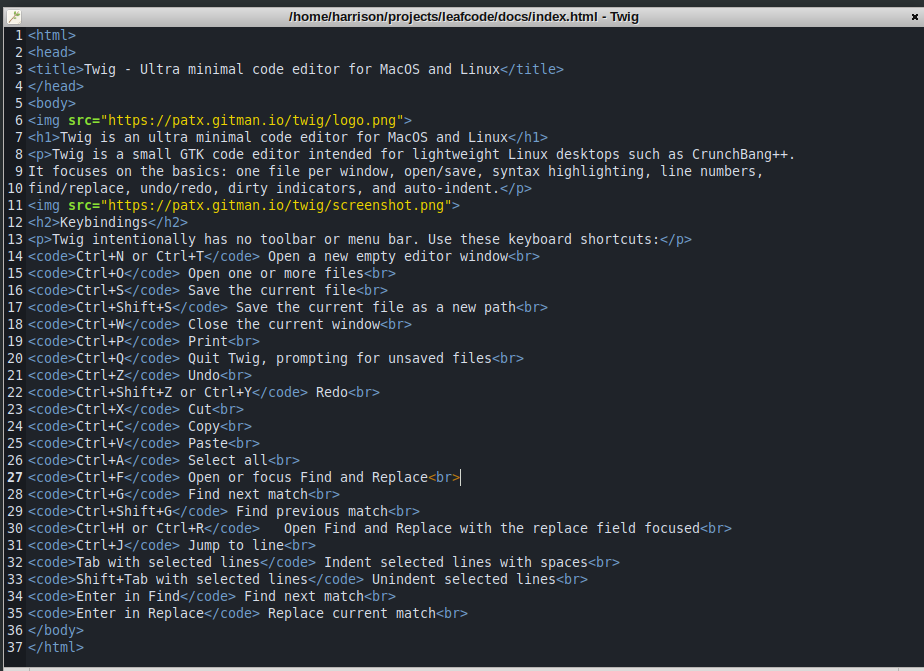
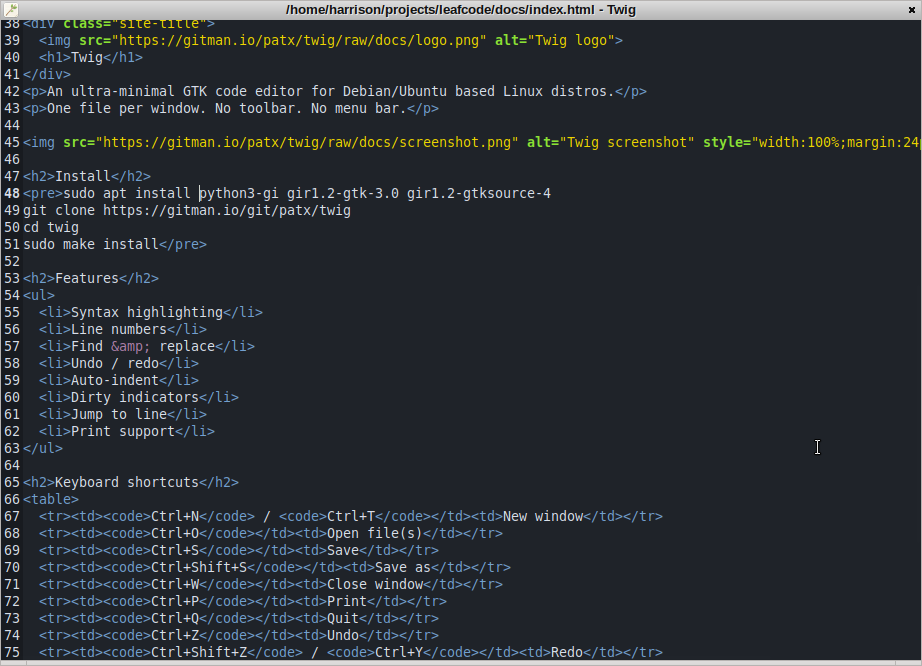
improve website

Changed region(s): [[0.0, 0.0, 1.0, 1.0], [0.8807, 0.6607, 0.9111, 0.6907]]

diff --git a/docs/index.html b/docs/index.html
@@ -1,37 +1,89 @@
-<html>
+<!DOCTYPE html>
+<html lang="en">
 <head>
-<title>Twig - Ultra minimal code editor for MacOS and Linux</title>
+<meta charset="UTF-8">
+<meta name="viewport" content="width=device-width, initial-scale=1.0">
+<title>Twig — minimal code editor</title>
+<style>
+  body {
+    font-family: monospace;
+    font-size: 15px;
+    line-height: 1.7;
+    max-width: 600px;
+    margin: 60px auto;
+    padding: 0 20px 80px;
+    color: #111;
+    background: #fff;
+  }
+  h1 { font-size: 1.1rem; margin: 0 0 8px; }
+  h2 { font-size: 0.85rem; margin: 40px 0 12px; text-transform: uppercase; letter-spacing: 0.05em; color: #888; }
+  p  { color: #444; margin: 0 0 8px; }
+  ul { padding-left: 1.2em; color: #444; margin: 0; }
+  li { margin: 2px 0; }
+  table { border-collapse: collapse; width: 100%; font-size: 0.9rem; }
+  td { padding: 4px 0; vertical-align: top; }
+  td:first-child { width: 55%; color: #111; }
+  td:last-child { color: #888; }
+  code { background: #f2f2f2; padding: 1px 5px; }
+  a { color: #111; }
+  footer { margin-top: 48px; color: #bbb; font-size: 0.8rem; }
+  pre { background: #f2f2f2; padding: 12px; margin: 0; overflow-x: auto; }
+  .site-title { display: flex; align-items: center; gap: 10px; margin-bottom: 8px; }
+  .site-title img { height: 28px; width: auto; }
+  .site-title h1 { margin: 0; }
+</style>
 </head>
 <body>
-<img src="https://gitman.io/patx/twig/raw/docs/logo.png">
-<h1>Twig is an ultra minimal code editor for MacOS and Linux</h1>
-<p>Twig is a small GTK code editor intended for lightweight Linux desktops such as CrunchBang++.
-It focuses on the basics: one file per window, open/save, syntax highlighting, line numbers,
-find/replace, undo/redo, dirty indicators, and auto-indent.</p>
-<img src="https://gitman.io/patx/twig/raw/docs/screenshot.png">
-<h2>Keybindings</h2>
-<p>Twig intentionally has no toolbar or menu bar. Use these keyboard shortcuts:</p>
-<code>Ctrl+N or Ctrl+T</code> Open a new empty editor window<br>
-<code>Ctrl+O</code> Open one or more files<br>
-<code>Ctrl+S</code>	Save the current file<br>
-<code>Ctrl+Shift+S</code> Save the current file as a new path<br>
-<code>Ctrl+W</code> Close the current window<br>
-<code>Ctrl+P</code> Print<br>
-<code>Ctrl+Q</code> Quit Twig, prompting for unsaved files<br>
-<code>Ctrl+Z</code> Undo<br>
-<code>Ctrl+Shift+Z or Ctrl+Y</code> Redo<br>
-<code>Ctrl+X</code> Cut<br>
-<code>Ctrl+C</code> Copy<br>
-<code>Ctrl+V</code> Paste<br>
-<code>Ctrl+A</code> Select all<br>
-<code>Ctrl+F</code> Open or focus Find and Replace<br>
-<code>Ctrl+G</code> Find next match<br>
-<code>Ctrl+Shift+G</code> Find previous match<br>
-<code>Ctrl+H or Ctrl+R</code>	Open Find and Replace with the replace field focused<br>
-<code>Ctrl+J</code>	Jump to line<br>
-<code>Tab with selected lines</code> Indent selected lines with spaces<br>
-<code>Shift+Tab with selected lines</code> Unindent selected lines<br>
-<code>Enter in Find</code> Find next match<br>
-<code>Enter in Replace</code> Replace current match<br>
+
+<div class="site-title">
+  <img src="https://gitman.io/patx/twig/raw/docs/logo.png" alt="Twig logo">
+  <h1>Twig</h1>
+</div>
+<p>An ultra-minimal GTK code editor for Debian/Ubuntu based Linux distros.</p>
+<p>One file per window. No toolbar. No menu bar. <a href="https://gitman.io/patx/twig/raw/docs/screenshot.png" target="_blank">View screenshot</a>.</p>
+
+<h2>Install</h2>
+<pre>sudo apt install python3-gi gir1.2-gtk-3.0 gir1.2-gtksource-4
+git clone https://gitman.io/git/patx/twig
+cd twig
+sudo make install</pre>
+
+<h2>Features</h2>
+<ul>
+  <li>Syntax highlighting</li>
+  <li>Line numbers</li>
+  <li>Find &amp; replace</li>
+  <li>Undo / redo</li>
+  <li>Auto-indent</li>
+  <li>Dirty indicators</li>
+  <li>Jump to line</li>
+  <li>Print support</li>
+</ul>
+
+<h2>Keyboard shortcuts</h2>
+<table>
+  <tr><td><code>Ctrl+N</code> / <code>Ctrl+T</code></td><td>New window</td></tr>
+  <tr><td><code>Ctrl+O</code></td><td>Open file(s)</td></tr>
+  <tr><td><code>Ctrl+S</code></td><td>Save</td></tr>
+  <tr><td><code>Ctrl+Shift+S</code></td><td>Save as</td></tr>
+  <tr><td><code>Ctrl+W</code></td><td>Close window</td></tr>
+  <tr><td><code>Ctrl+P</code></td><td>Print</td></tr>
+  <tr><td><code>Ctrl+Q</code></td><td>Quit</td></tr>
+  <tr><td><code>Ctrl+Z</code></td><td>Undo</td></tr>
+  <tr><td><code>Ctrl+Shift+Z</code> / <code>Ctrl+Y</code></td><td>Redo</td></tr>
+  <tr><td><code>Ctrl+X</code> / <code>Ctrl+C</code> / <code>Ctrl+V</code></td><td>Cut / Copy / Paste</td></tr>
+  <tr><td><code>Ctrl+A</code></td><td>Select all</td></tr>
+  <tr><td><code>Ctrl+F</code></td><td>Find</td></tr>
+  <tr><td><code>Ctrl+G</code> / <code>Ctrl+Shift+G</code></td><td>Find next / previous</td></tr>
+  <tr><td><code>Ctrl+H</code> / <code>Ctrl+R</code></td><td>Find &amp; replace</td></tr>
+  <tr><td><code>Ctrl+J</code></td><td>Jump to line</td></tr>
+  <tr><td><code>Tab</code> with selection</td><td>Indent</td></tr>
+  <tr><td><code>Shift+Tab</code> with selection</td><td>Unindent</td></tr>
+  <tr><td><code>Enter</code> in Find</td><td>Find next</td></tr>
+  <tr><td><code>Enter</code> in Replace</td><td>Replace match</td></tr>
+</table>
+
+<footer><a href="https://gitman.io/patx/twig">GitMan</a> &nbsp;· MIT license</footer>
+
 </body>
 </html>